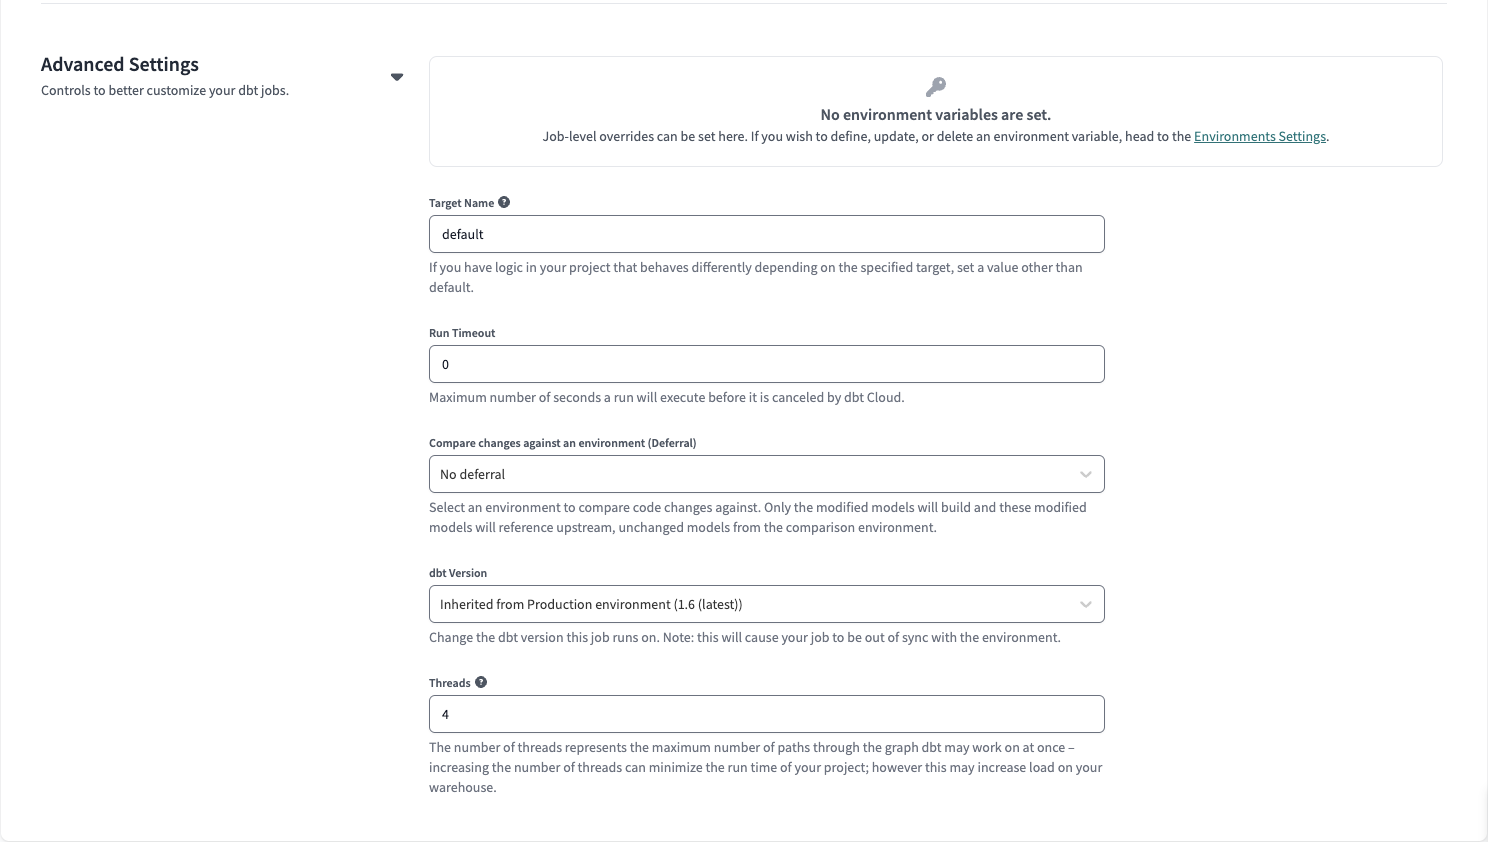
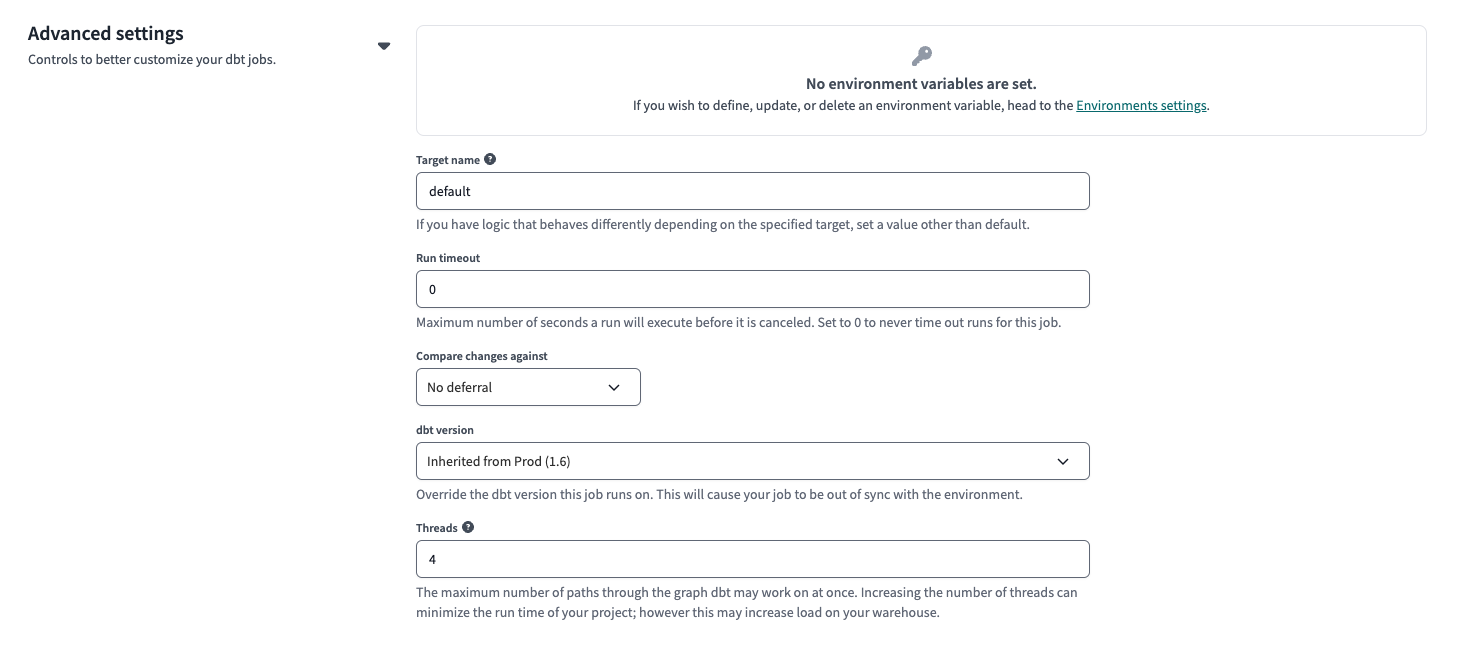
Trigger on job completion

diff --git a/website/docs/docs/deploy/deploy-jobs.md b/website/docs/docs/deploy/deploy-jobs.md
@@ -25,35 +25,40 @@ You can create a deploy job and configure it to run on [scheduled days and times
 
 ## Create and schedule jobs {#create-and-schedule-jobs}
 
-1. On your deployment environment page, click **Create Job** > **Deploy Job** to create a new deploy job. 
-2. Options in the **Job Description** section:
-    - **Job Name** &mdash; Specify the name for the deploy job. For example, `Daily build`.
+1. On your deployment environment page, click **Create job** > **Deploy job** to create a new deploy job. 
+2. Options in the **Job settings** section:
+    - **Job name** &mdash; Specify the name for the deploy job. For example, `Daily build`.
+    - (Optional) **Description** &mdash; Provide a description of what the job does (for example, what the job consumes and what the job produces). 
     - **Environment** &mdash;  By default, it’s set to the deployment environment you created the deploy job from.
-3. Options in the **Execution Settings** section:
+3. Options in the **Execution settings** section:
     - **Commands** &mdash; By default, it includes the `dbt build` command. Click **Add command** to add more [commands](/docs/deploy/job-commands) that you want to be invoked when the job runs.
     - **Generate docs on run** &mdash; Enable this option if you want to [generate project docs](/docs/collaborate/build-and-view-your-docs) when this deploy job runs.
     - **Run source freshness** &mdash; Enable this option to invoke the `dbt source freshness` command before running the deploy job. Refer to [Source freshness](/docs/deploy/source-freshness) for more details.
-4. Options in the **Schedule** section:
-    - **Run on schedule** &mdash; Enable this option to run the deploy job on a set schedule.
-    - **Timing** &mdash; Specify whether to [schedule](#schedule-days) the deploy job using **Frequency** that runs the job at specific times of day, **Specific Intervals** that runs the job every specified number of hours, or **Cron Schedule** that runs the job specified using [cron syntax](#custom-cron-schedule).
-    - **Days of the Week** &mdash; By default, it’s set to every day when **Frequency** or **Specific Intervals** is chosen for **Timing**.
+4. Options in the **Triggers** section:
+    - **Run on schedule** &mdash; Run the deploy job on a set schedule.
+        - **Timing** &mdash; Specify whether to [schedule](#schedule-days) the deploy job using **Hours of the day** that runs the job at specific times of day, **Exact intervals** that runs the job every specified number of hours, or **Cron Schedule** that runs the job specified using [cron syntax](#custom-cron-schedule).
+        - **Days of the week** &mdash; By default, it’s set to every day when **Hours of the day** or **Specific intervals** is chosen for **Timing**.
+    - **Run when another job finishes** &mdash; Run the deploy job when another _upstream_ deploy [job completes](#trigger-on-job-completion).  
+        - **Project** &mdash; Specify the parent project that has that deploy job. 
+        - **Job** &mdash; Specify that deploy job. 
+        - **Completes on** &mdash; Select the run status(es) when the upstream deploy job completes that will [enqueue](/docs/deploy/job-scheduler#scheduler-queue) the deploy job.  
 
-<Lightbox src="/img/docs/dbt-cloud/using-dbt-cloud/create-deploy-job.png" width="90%" title="Example of Deploy Job page in dbt Cloud UI"/>
+<Lightbox src="/img/docs/dbt-cloud/using-dbt-cloud/example-triggers-section.png" width="90%" title="Example of Triggers on the Deploy Job page"/>
 
-5. (optional) Options in the **Advanced Settings** section: 
-    - **Environment Variables** &mdash; Define [environment variables](/docs/build/environment-variables) to customize the behavior of your project when the deploy job runs.
-    - **Target Name** &mdash; Define the [target name](/docs/build/custom-target-names) to customize the behavior of your project when the deploy job runs. Environment variables and target names are often used interchangeably. 
-    - **Run Timeout** &mdash; Cancel the deploy job if the run time exceeds the timeout value. 
+5. (optional) Options in the **Advanced settings** section: 
+    - **Environment variables** &mdash; Define [environment variables](/docs/build/environment-variables) to customize the behavior of your project when the deploy job runs.
+    - **Target name** &mdash; Define the [target name](/docs/build/custom-target-names) to customize the behavior of your project when the deploy job runs. Environment variables and target names are often used interchangeably. 
+    - **Run timeout** &mdash; Cancel the deploy job if the run time exceeds the timeout value. 
     - **Compare changes against** &mdash; By default, it’s set to **No deferral**. Select either **Environment** or **This Job** to let dbt Cloud know what it should compare the changes against.  
 
     :::info
     Older versions of dbt Cloud only allow you to defer to a specific job instead of an environment. Deferral to a job compares state against the project code that was run in the deferred job's last successful run. While deferral to an environment is more efficient as dbt Cloud will compare against the project representation (which is stored in the `manifest.json`) of the last successful deploy job run that executed in the deferred environment. By considering _all_ deploy jobs that run in the deferred environment, dbt Cloud will get a more accurate, latest project representation state.
     :::
 
-    - **dbt Version** &mdash; By default, it’s set to inherit the [dbt version](/docs/dbt-versions/core) from the environment. dbt Labs strongly recommends that you don't change the default setting. This option to change the version at the job level is useful only when you upgrade a project to the next dbt version; otherwise, mismatched versions between the environment and job can lead to confusing behavior. 
+    - **dbt version** &mdash; By default, it’s set to inherit the [dbt version](/docs/dbt-versions/core) from the environment. dbt Labs strongly recommends that you don't change the default setting. This option to change the version at the job level is useful only when you upgrade a project to the next dbt version; otherwise, mismatched versions between the environment and job can lead to confusing behavior. 
     - **Threads** &mdash; By default, it’s set to 4 [threads](/docs/core/connect-data-platform/connection-profiles#understanding-threads). Increase the thread count to increase model execution concurrency.
 
-    <Lightbox src="/img/docs/dbt-cloud/using-dbt-cloud/deploy-job-adv-settings.png" width="90%" title="Example of Advanced Settings on Deploy Job page"/>
+    <Lightbox src="/img/docs/dbt-cloud/using-dbt-cloud/deploy-job-adv-settings.png" width="90%" title="Example of Advanced Settings on the Deploy Job page"/>
 
 ### Schedule days
 
@@ -100,6 +105,15 @@ Here are examples of cron job schedules. The dbt Cloud job scheduler supports us
 - `0 12 L * *`: At 12:00 PM (afternoon), on the last day of the month.
 - `0 7 L * 5`: At 07:00 AM, on the last day of the month, and on Friday.
 - `30 14 L * *`: At 02:30 PM, on the last day of the month.
+
+### Trigger on job completion
+
+To chain deploy jobs together, enable the **Run when another job finishes** option and specify the upstream job that when it completes will trigger your job. You must have access (permissions) to the upstream project and job to configure the trigger.
+
+To configure your job to run based on the completion of an upstream job, enable the **Run when another job finishes** option and specify the upstream job that will act as the trigger.  
+
+For jobs that are triggered to run by another job, a link to the upstream job run is available from your job's run details. 
+
 
 ## Related docs
 
